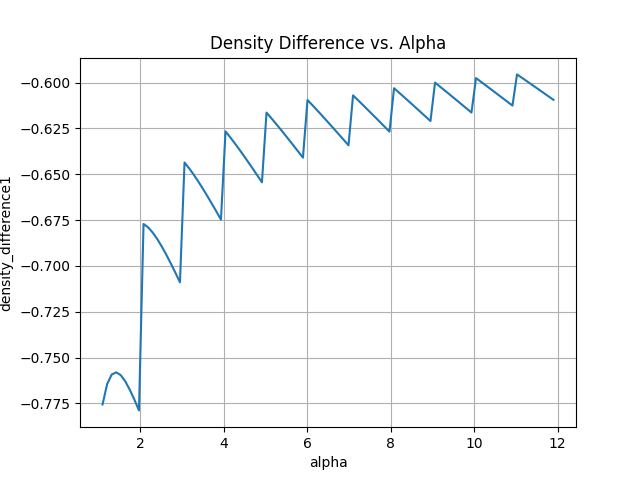
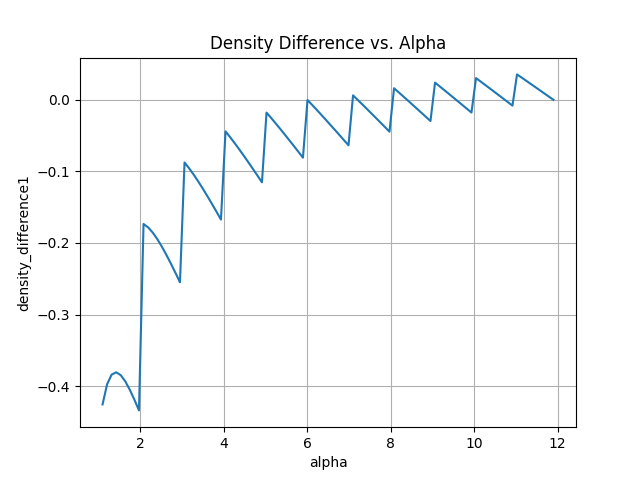
调整共同质量m为0.0020后求出alpha均为6.002

diff --git a/caculate_d.py b/caculate_d.py
@@ -1,0 +1,41 @@
+import numpy as np 
+import math
+
+# 左状态参数
+n_left = 640  # 左状态粒子数
+rho_left = 1.0  # 左状态密度
+x_left = np.linspace(0, 0.5, n_left)  # 粒子均匀分布, 所以在区间中生成640个等间距的点
+m = 0.0020  # 每个粒子的质量
+dx1 = 0.5 / (8 * 80)  # 左侧空间步长 这里是8，一共有9n个粒子，所以密度比0.1和0.125是8比1
+
+# 右状态参数
+n_right = 80  # 右状态粒子数
+rho_right = 0.125  # 右状态密度
+x_right = np.linspace(0.5, 1.0, n_right)
+dx2 = 0.5 / 80  # 右侧空间步长
+
+# 高斯核函数  
+def gaussian_kernel(r, h):
+    return (1 / (h * np.sqrt(np.pi))) * np.exp(-(r / h)**2)
+
+# 计算质量密度估计函数
+def calculate_density(alpha, dx, m, n, h, rho_target):
+    h = alpha * dx
+    max_k = math.floor(alpha)  # 最大有效k值（r=kdx,k是比α小的最大整数）
+    valid_ks = range(1, min(n, max_k)   + 1)  # 仅考虑存在的粒子，确保不会考虑超过实际粒子数量的k值
+    terms = [gaussian_kernel(k * dx, h) for k in valid_ks]
+    rho_i = m * np.sum(terms)
+    return rho_i
+
+# ------------------------- 求解左状态 -------------------------
+print("===== 左状态求解 =====")
+rho_i_left = calculate_density( 6.002,dx1, m, 6, 0.004689, rho_left)
+print(f"  左状态密度：计算的rho_i为（rho_left={rho_left}）")
+
+# ------------------------- 求解右状态 -------------------------
+print("\n===== 右状态求解 =====")
+
+rho_i_right = calculate_density(6.002,dx2, m, 6, 0.037512, rho_right)
+print(f"  右状态密度：计算的rho_i为（rho_right={rho_right}）")
+
+

diff --git a/startSodTube.py b/startSodTube.py
@@ -40,7 +40,7 @@ def preProcess(N, dx1, dx2, gamma):
             part['u'][i] = 0.0  # 初始速度设置为0
             part['c'][i] = np.sqrt((gamma  * (gamma-1) )* part['e'][i])  # 计算声速
             part['m'][i] = dx1  # 用密度part['d'][i]质量密度估计公式算出mb
-            part['h'][i] = 8.0 * dx1  # ，利用m即dx1和rho:1.0去求先求W，再用W求h平滑长度
+            part['h'][i] = 6.002 * dx1  # ，利用m即dx1和rho:1.0去求先求W，再用W求h平滑长度
 
         else:
             # 右侧粒子的位置计算
@@ -54,6 +54,6 @@ def preProcess(N, dx1, dx2, gamma):
             part['u'][i] = 0.0  # 初始速度设置为0
             part['c'][i] = np.sqrt((gamma  * (gamma-1) )* part['e'][i])  # 计算声速
             part['m'][i] = dx1  # 用密度part['d'][i]质量密度估计公式算出mb
-            part['h'][i] = 2.0 * dx2  # 平滑长度  重新算2.0
+            part['h'][i] = 6.002 * dx2  # 平滑长度  重新算2.0
 
     return part

diff --git a/whm_yan.py b/whm_yan.py
@@ -5,14 +5,14 @@ from scipy.optimize import fsolve
 n_left = 640  # 左状态粒子数
 rho_left = 1.0  # 左状态密度
 x_left = np.linspace(0, 0.5, n_left)  # 粒子均匀分布, 所以在区间中生成640个等间距的点
-m_left = 0.001960  # 每个粒子的质量
+m_left = 0.0020  # 每个粒子的质量
 dx1 = 0.5 / (8 * 80)  # 左侧空间步长 这里是8，一共有9n个粒子，所以密度比0.1和0.125是8比1
 
 # 右状态参数
 n_right = 80  # 右状态粒子数
 rho_right = 0.125  # 右状态密度
 x_right = np.linspace(0.5, 1.0, n_right)
-m_right =  0.002415   # 右状态粒子均匀分布，在区间中生成80个等间距的点
+m_right =  0.0020   # 右状态粒子均匀分布，在区间中生成80个等间距的点
 dx2 = 0.5 / 80  # 右侧空间步长
 
 # 高斯核函数  

diff --git a/mainSodTube.py b/mainSodTube.py
@@ -16,8 +16,8 @@ from Wf import W
 # 初始数据设定
 n = 80                             # 最小粒子数
 N = 9 * n                     # 总粒子数
-dx1 = 0.5 / (8 * n)  =   0.5 / (8 * 80)           # 左侧空间步长  这里是8,一共有9n个粒子，所以密度比0.1和0.125是8比1
-dx2 = 0.5 / n  =0.5 / 80                   # 右侧空间步长
+dx1 = 0.5 / (8 * n)             # 左侧空间步长  这里是8,一共有9n个粒子，所以密度比0.1和0.125是8比1
+dx2 = 0.5 / n                 # 右侧空间步长
 gamma = 1.4                        # 气体常数
 part = preProcess(N, dx1, dx2, gamma)    # 初始化粒子
 T = 0.24                           # 终止时间

diff --git a/plot_wh.py b/plot_wh.py
@@ -6,7 +6,7 @@ import math
 n_left = 640  # 左状态粒子数
 rho_left = 1.0  # 左状态密度
 x_left = np.linspace(0, 0.5, n_left)  # 粒子均匀分布, 所以在区间中生成640个等间距的点
-m = 0.5 / (8 * 80)  # 每个粒子的质量
+m = 0.0020  # 每个粒子的质量
 dx1 = 0.5 / (8 * 80)  # 左侧空间步长 这里是8，一共有9n个粒子，所以密度比0.1和0.125是8比1
 
 # 右状态参数
